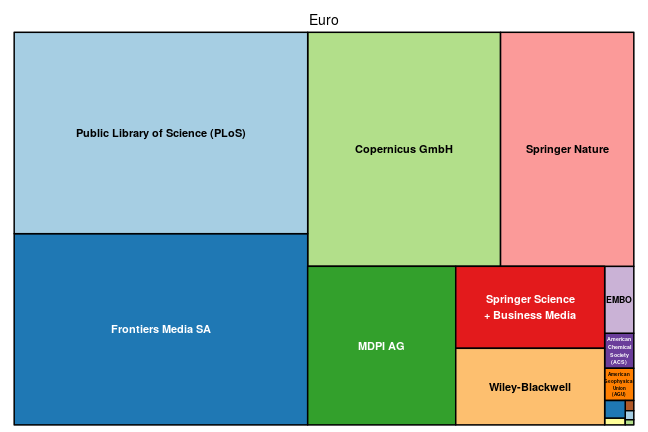
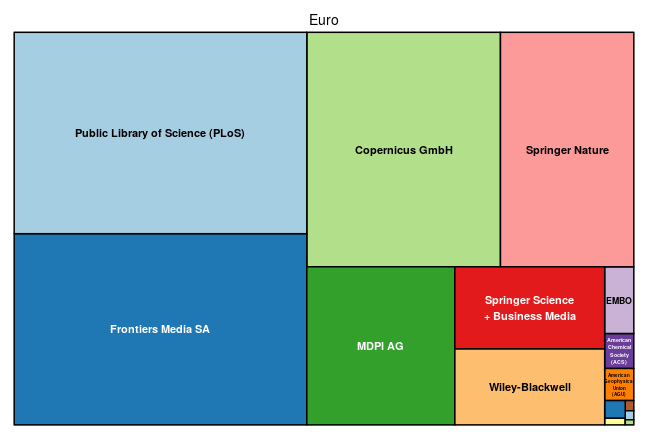
update: ethz apc data 2012 - 2019

diff --git a/_posts/2021-03-25-ethz.md b/_posts/2021-03-25-ethz.md
@@ -22,17 +22,17 @@ Contact Person is [Dr. Rainer Rees-Mertins](mailto:rainer.rees@library.ethz.ch).
 
 
 
-The new data set covers publication fees for 1,214 articles. Total expenditure amounts to 1,792,594€ and the average fee is 1,477€.
+The new data set covers publication fees for 1,219 articles. Total expenditure amounts to 1,799,823€ and the average fee is 1,476€.
 
 
 |                                  | Articles| Fees paid in EURO| Mean Fee paid|
 |:---------------------------------|--------:|-----------------:|-------------:|
 |Public Library of Science (PLoS)  |      381|            580532|          1524|
 |Frontiers Media SA                |      300|            551261|          1838|
-|Copernicus GmbH                   |      267|            443266|          1660|
+|Copernicus GmbH                   |      269|            447389|          1663|
 |MDPI AG                           |      219|            230606|          1053|
-|Springer Nature                   |      214|            306309|          1431|
-|Springer Science + Business Media |      102|            119949|          1176|
+|Springer Nature                   |      216|            308118|          1426|
+|Springer Science + Business Media |      103|            121245|          1177|
 |Wiley-Blackwell                   |       47|            112054|          2384|
 |American Geophysical Union (AGU)  |        7|              9227|          1318|
 |EMBO                              |        6|             19159|          3193|
